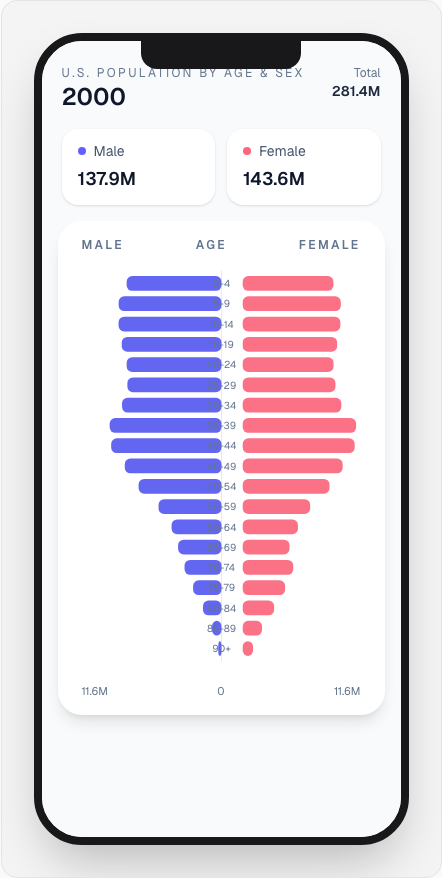
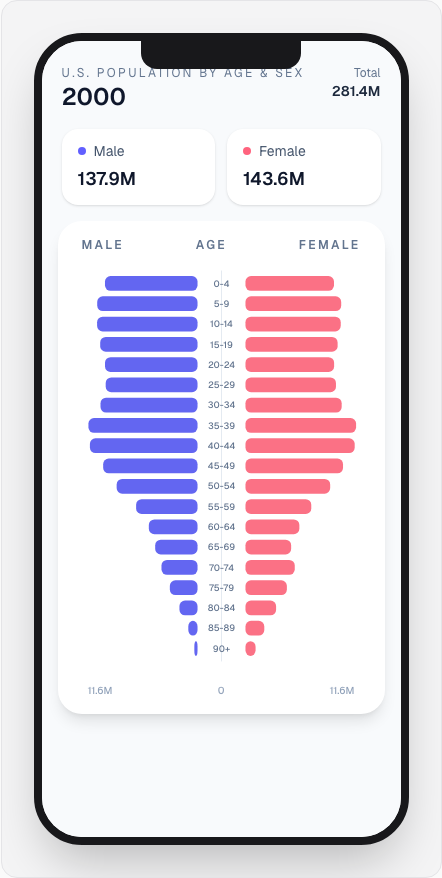
feat: transform population visualization to mobile-friendly pyramid layout

diff --git a/vega-mobile-projects/vega-altair-14/src/components/Visualization.tsx b/vega-mobile-projects/vega-altair-14/src/components/Visualization.tsx
@@ -61,7 +61,7 @@ export function Visualization() {
 
   const chartWidth = 320;
   const margin = { top: 12, bottom: 16, left: 14, right: 14 };
-  const centerGap = 46;
+  const centerGap = 52;
   const rowHeight = 16;
   const rowGap = 6;
   const chartHeight = data.length
@@ -145,7 +145,7 @@ export function Visualization() {
                   const y = margin.top + index * (rowHeight + rowGap);
                   const maleWidth = (row.male / maxValue) * halfWidth;
                   const femaleWidth = (row.female / maxValue) * halfWidth;
-                  const maleX = centerX - maleWidth;
+                  const maleX = centerX - centerGap / 2 - maleWidth;
                   const femaleX = centerX + centerGap / 2;
 
                   return (
@@ -182,9 +182,10 @@ export function Visualization() {
                       </rect>
                       <text
                         x={centerX}
-                        y={y + rowHeight / 2 + 4}
+                        y={y + rowHeight / 2}
+                        dy=".35em"
                         textAnchor="middle"
-                        className="fill-slate-500 text-[11px]"
+                        className="fill-slate-500 text-[10px] font-medium"
                       >
                         {formatAgeLabel(row.age)}
                       </text>
@@ -192,10 +193,20 @@ export function Visualization() {
                   );
                 })}
               </svg>
-              <div className="mt-3 flex items-center justify-between px-2 text-[11px] text-slate-500">
-                <span>{formatCompact.format(maxValue)}</span>
-                <span>0</span>
-                <span>{formatCompact.format(maxValue)}</span>
+              <div
+                className="mt-3 flex items-center justify-between text-[10px] text-slate-400 font-medium"
+                style={{
+                  paddingLeft: `${margin.left}px`,
+                  paddingRight: `${margin.right}px`,
+                }}
+              >
+                <span className="flex-1 text-left">
+                  {formatCompact.format(maxValue)}
+                </span>
+                <span className="flex-1 text-center">0</span>
+                <span className="flex-1 text-right">
+                  {formatCompact.format(maxValue)}
+                </span>
               </div>
             </div>
           )}

diff --git a/vega-mobile-projects/vega-altair-14/src/components/PhoneFrame.tsx b/vega-mobile-projects/vega-altair-14/src/components/PhoneFrame.tsx
@@ -2,30 +2,33 @@
 import { ReactNode } from "react";
 
 interface PhoneFrameProps {
-    children: ReactNode;
-    width?: number;
-    height?: number;
+  children: ReactNode;
+  width?: number;
+  height?: number;
 }
 
 export function PhoneFrame({
-    children,
-    width = 375,
-    height = 812
+  children,
+  width = 375,
+  height = 812,
 }: PhoneFrameProps) {
-    return (
-        <div id="phone-frame-container" className="flex justify-center bg-zinc-100 dark:bg-zinc-900/50 rounded-2xl border border-zinc-200 dark:border-zinc-800 p-8 overflow-hidden">
-            <div
-                className="bg-white dark:bg-black shadow-2xl rounded-[3rem] border-[8px] border-zinc-900 overflow-hidden relative"
-                style={{
-                    width: width,
-                    height: height,
-                }}
-            >
-                {/* Notch */}
-                <div className="absolute top-0 left-1/2 -translate-x-1/2 w-40 h-7 bg-zinc-900 rounded-b-2xl z-50" />
+  return (
+    <div
+      id="phone-frame-container"
+      className="flex justify-center bg-zinc-100 dark:bg-zinc-900/50 rounded-2xl border border-zinc-200 dark:border-zinc-800 p-8 overflow-hidden"
+    >
+      <div
+        className="bg-white dark:bg-black shadow-2xl rounded-[3rem] border-[8px] border-zinc-900 overflow-hidden relative"
+        style={{
+          width: width,
+          height: height,
+        }}
+      >
+        {/* Notch */}
+        <div className="absolute top-0 left-1/2 -translate-x-1/2 w-40 h-7 bg-zinc-900 rounded-b-2xl z-50" />
 
-                {children}
-            </div>
-        </div>
-    );
+        {children}
+      </div>
+    </div>
+  );
 }

diff --git a/vega-mobile-projects/vega-altair-14/src/app/page.tsx b/vega-mobile-projects/vega-altair-14/src/app/page.tsx
@@ -3,14 +3,13 @@ import { PhoneFrame } from "@/components/PhoneFrame";
 import { Visualization } from "@/components/Visualization";
 
 export default function Home() {
-	return (
-		<main className="min-h-screen bg-zinc-50 dark:bg-zinc-950 p-8 font-sans flex flex-col items-center justify-center">
-			<div className="space-y-4">
-				<PhoneFrame>
-					<Visualization />
-				</PhoneFrame>
-			</div>
-		</main>
-	);
+  return (
+    <main className="min-h-screen bg-zinc-50 dark:bg-zinc-950 p-8 font-sans flex flex-col items-center justify-center">
+      <div className="space-y-4">
+        <PhoneFrame>
+          <Visualization />
+        </PhoneFrame>
+      </div>
+    </main>
+  );
 }
-
